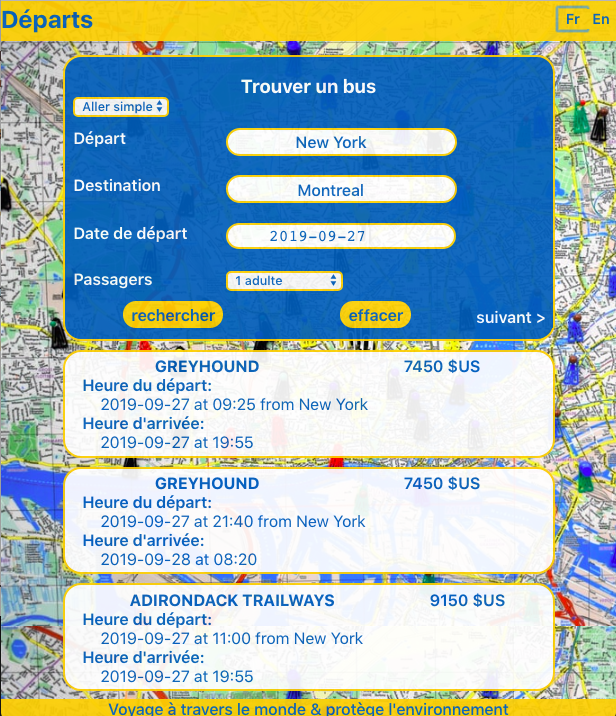
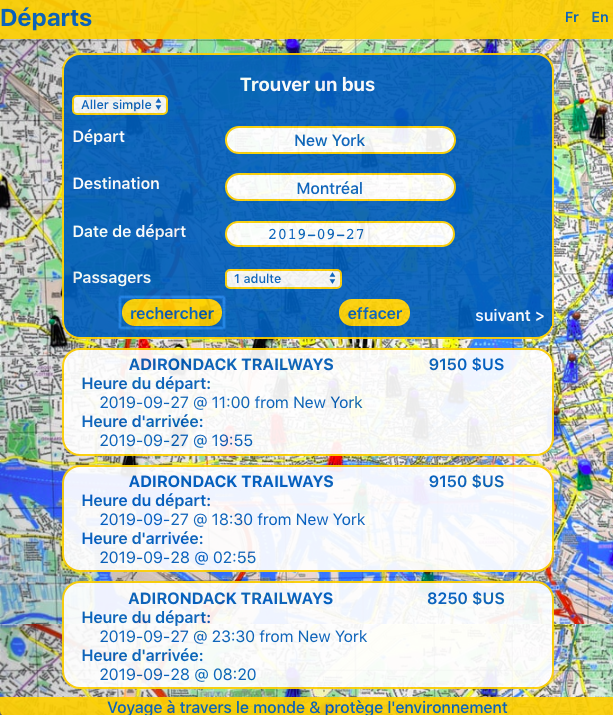
translation added

Changed region(s): [[0.0, 0.0, 1.0, 1.0]]

diff --git a/src/Departures.jsx b/src/Departures.jsx
@@ -146,7 +146,14 @@ class UnconnectedDepartures extends Component {
       let responseBody = await response.text();
       body = JSON.parse(responseBody);
       console.log("Success:", JSON.stringify(responseBody));
-      window.confirm("Request successful! Please wait while loading...");
+      let message
+      if(this.state.language === "En"){
+        message = "Request successful! Please wait while loading...";
+      } else {
+        message = t("Request successful! Please wait while loading...");
+      }
+      
+      window.confirm(message);
       this.setState({ busResults: body, complete: body.complete });
       this.props.dispatch({
         type: "fetch-departures-done",
@@ -354,7 +361,7 @@ class UnconnectedDepartures extends Component {
                                 <div className="departure-arrival-result">
                                   {bus.departure_time
                                     .split("T")
-                                    .join(" at ")
+                                    .join(" @ ")
                                     .slice(0, -3)}
                                   {" from " + this.state.origin}
                                 </div>
@@ -368,7 +375,7 @@ class UnconnectedDepartures extends Component {
                                 <div className="departure-arrival-result">
                                   {bus.arrival_time
                                     .split("T")
-                                    .join(" at ")
+                                    .join(" @ ")
                                     .slice(0, -3)}
                                 </div>
                               </div>

diff --git a/src/Translations.jsx b/src/Translations.jsx
@@ -43,6 +43,9 @@ let t = x => {
       return (y = "< précédent");
     case "next >":
       return (y = "suivant >");
+    case "Request successful! Please wait while loading...":
+      return (y =
+        "Requête réussie! Veuillez patienter le temps du chargement...");
   }
 
   return y;
